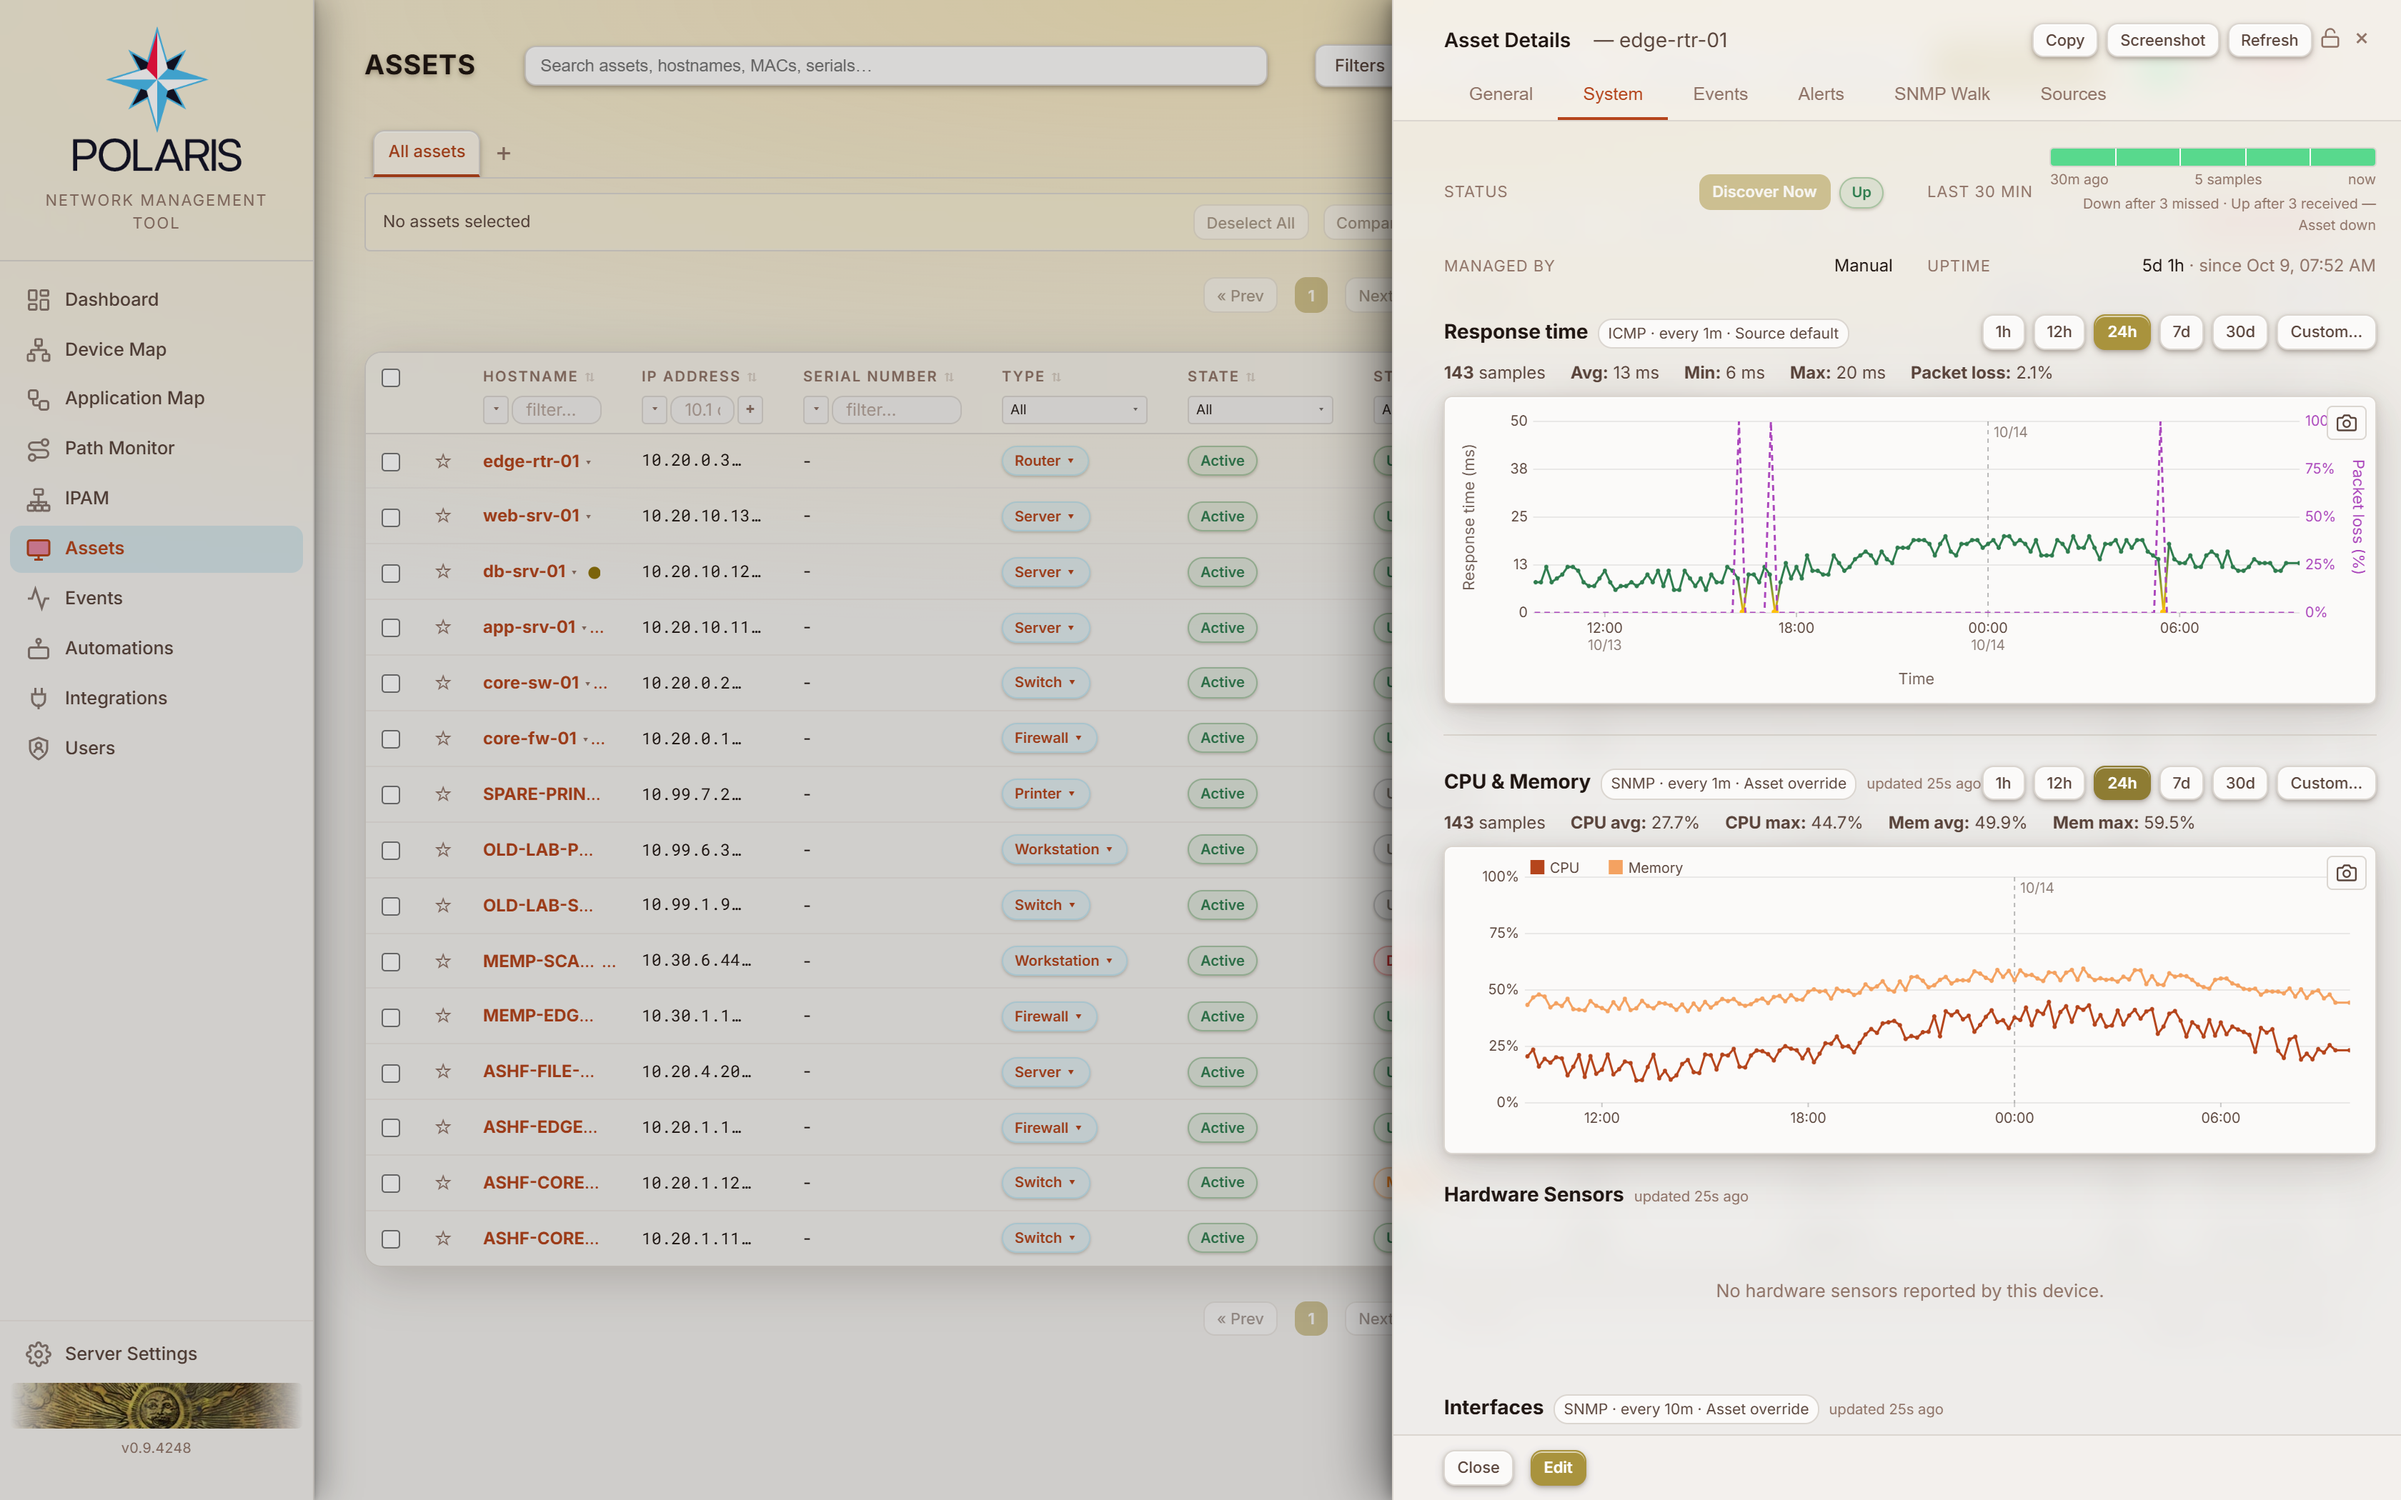
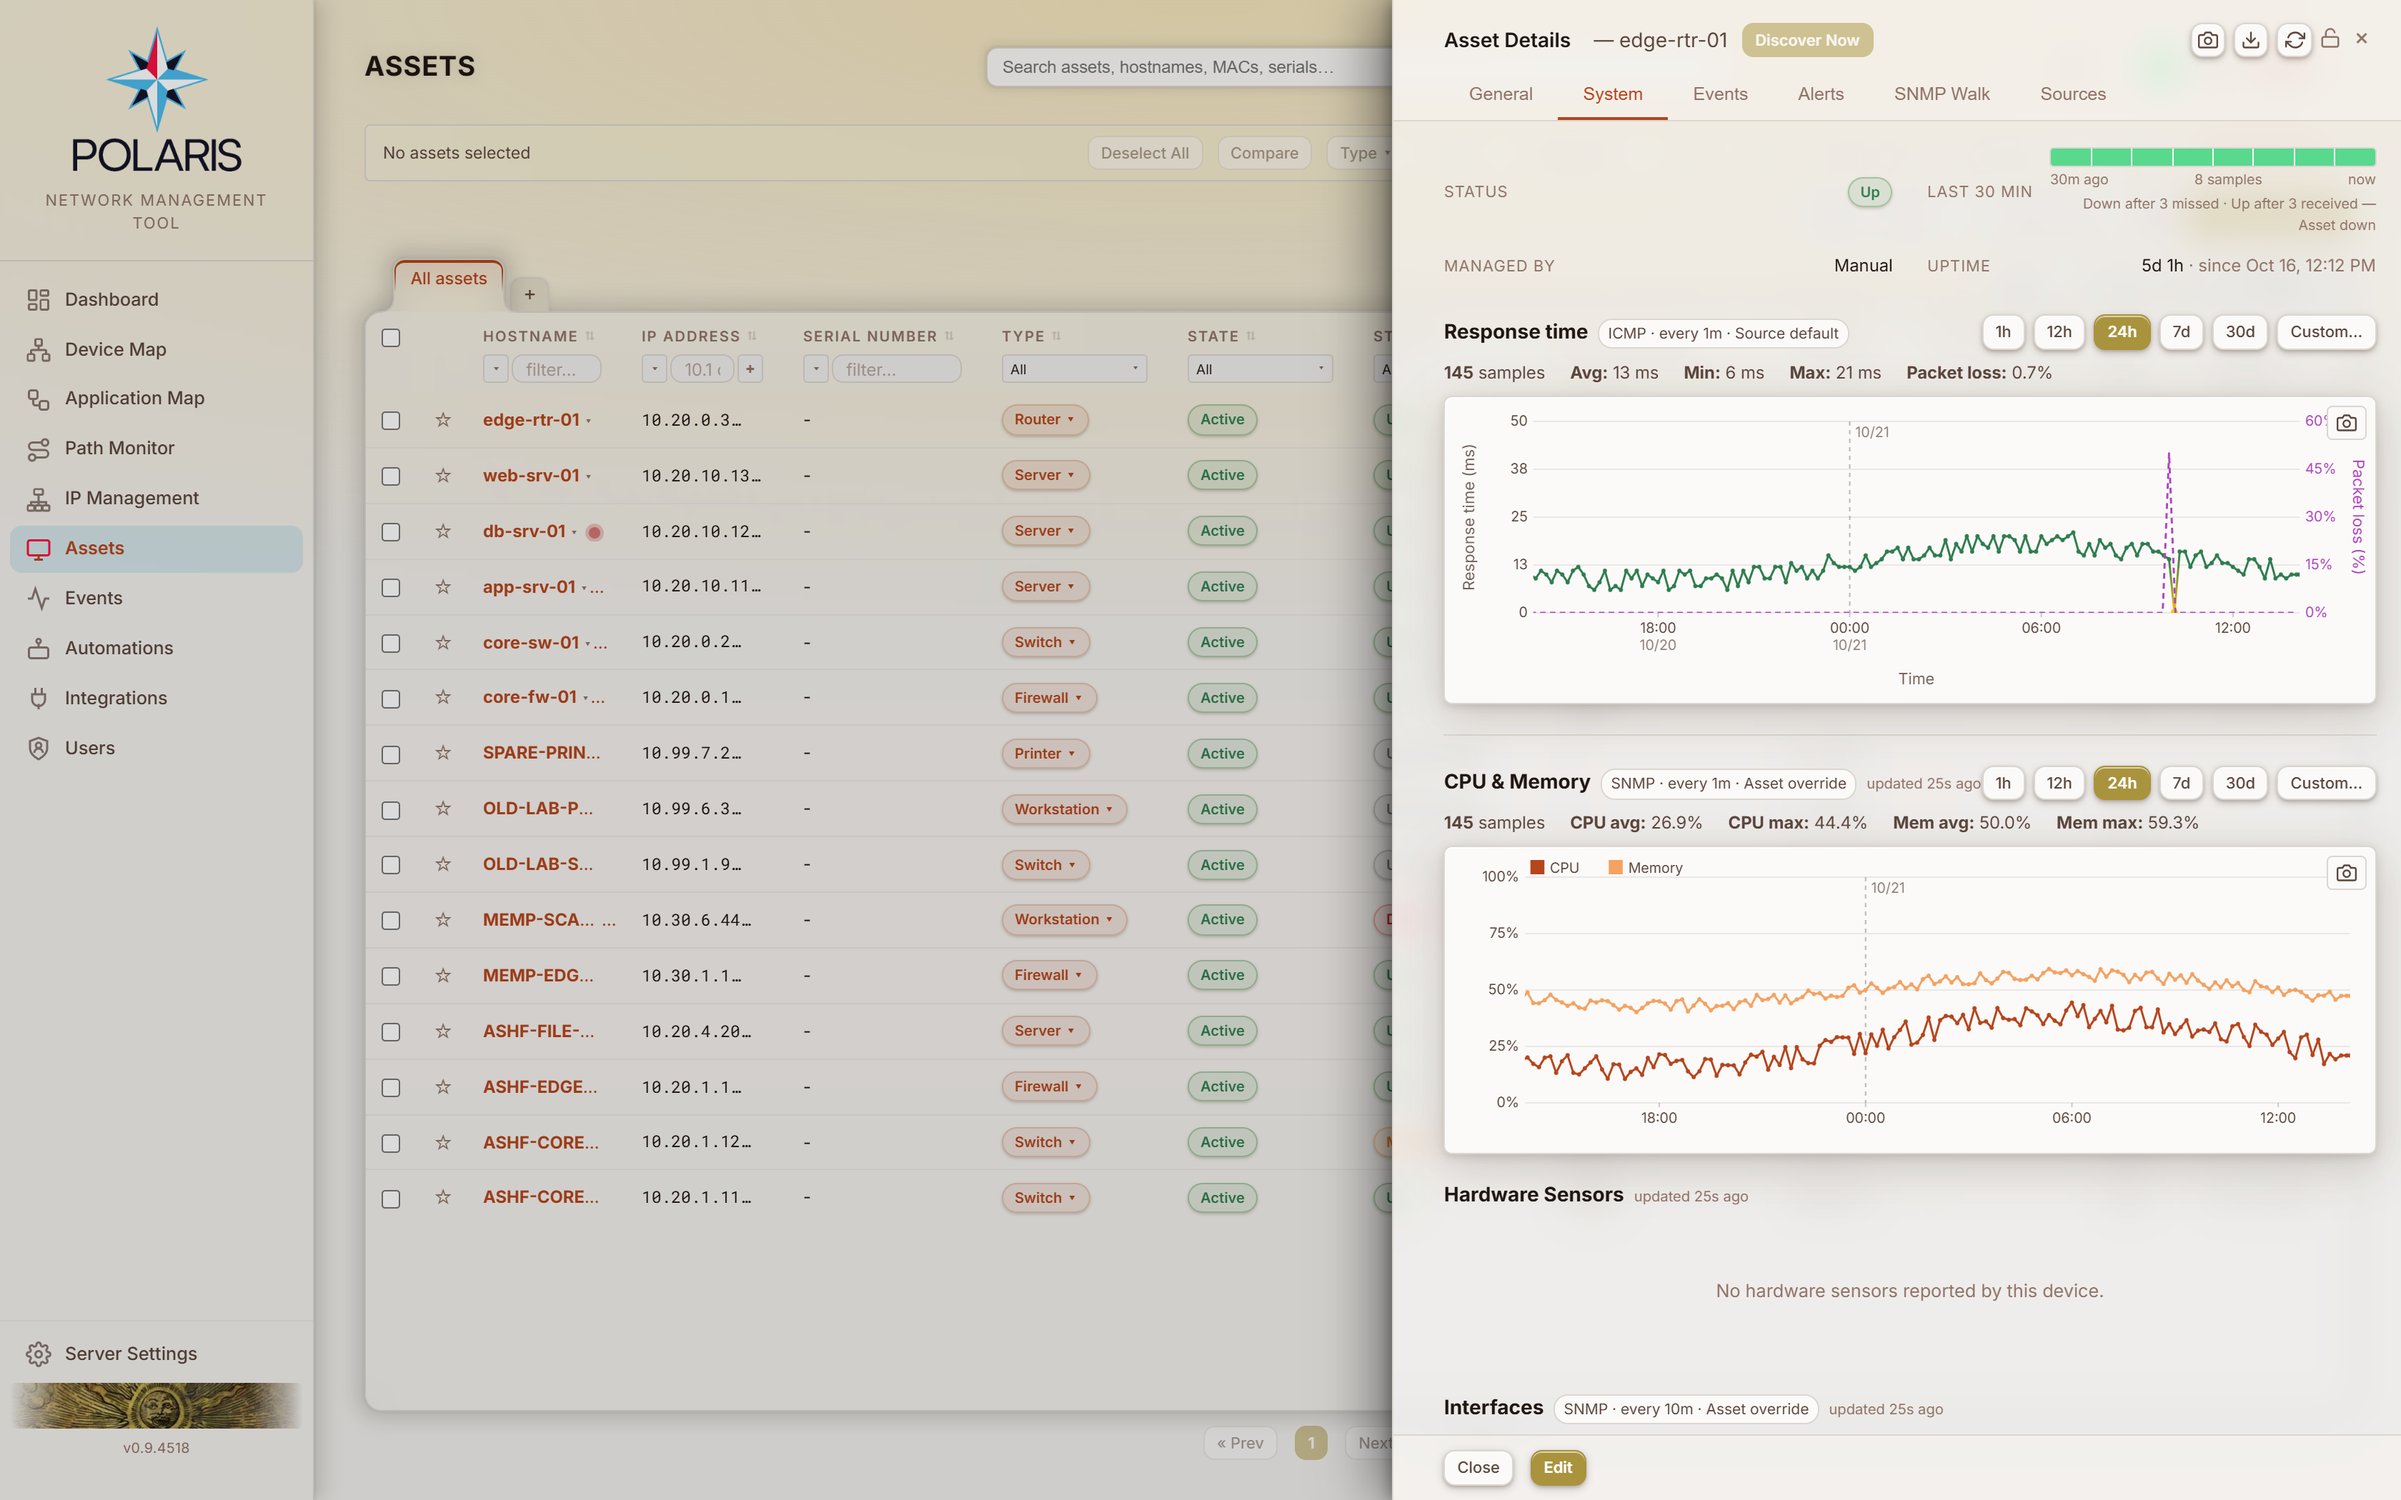
docs: recapture the README screenshots
Dashboard, Assets and the edge-rtr-01 System tab, in noon and nightfall,
shot from a freshly seeded dev stack at v0.9.4518. They now show the folder
tabs, the toolbar layout and the Description column added since the October 7
shoot. The Assets alt text lists the Description column.

diff --git a/README.md b/README.md
@@ -42,7 +42,7 @@ How Polaris knows what to monitor. Full detail: [Assets](https://github.com/roge
 
 <picture>
   <source media="(prefers-color-scheme: dark)" srcset="docs/img/screenshots/desktop-nightfall-assets.png">
-  <img alt="The Assets table: hostname, IP, serial, type, state, monitor status, monitoring transport, sources, tags and last seen, with a per-column filter row and a bulk-action bar." src="docs/img/screenshots/desktop-noon-assets.png">
+  <img alt="The Assets table: hostname, IP, serial, type, state, monitor status, monitoring transport, sources, description, tags and last seen, with a per-column filter row and a bulk-action bar." src="docs/img/screenshots/desktop-noon-assets.png">
 </picture>
 
 ## Also in the box
